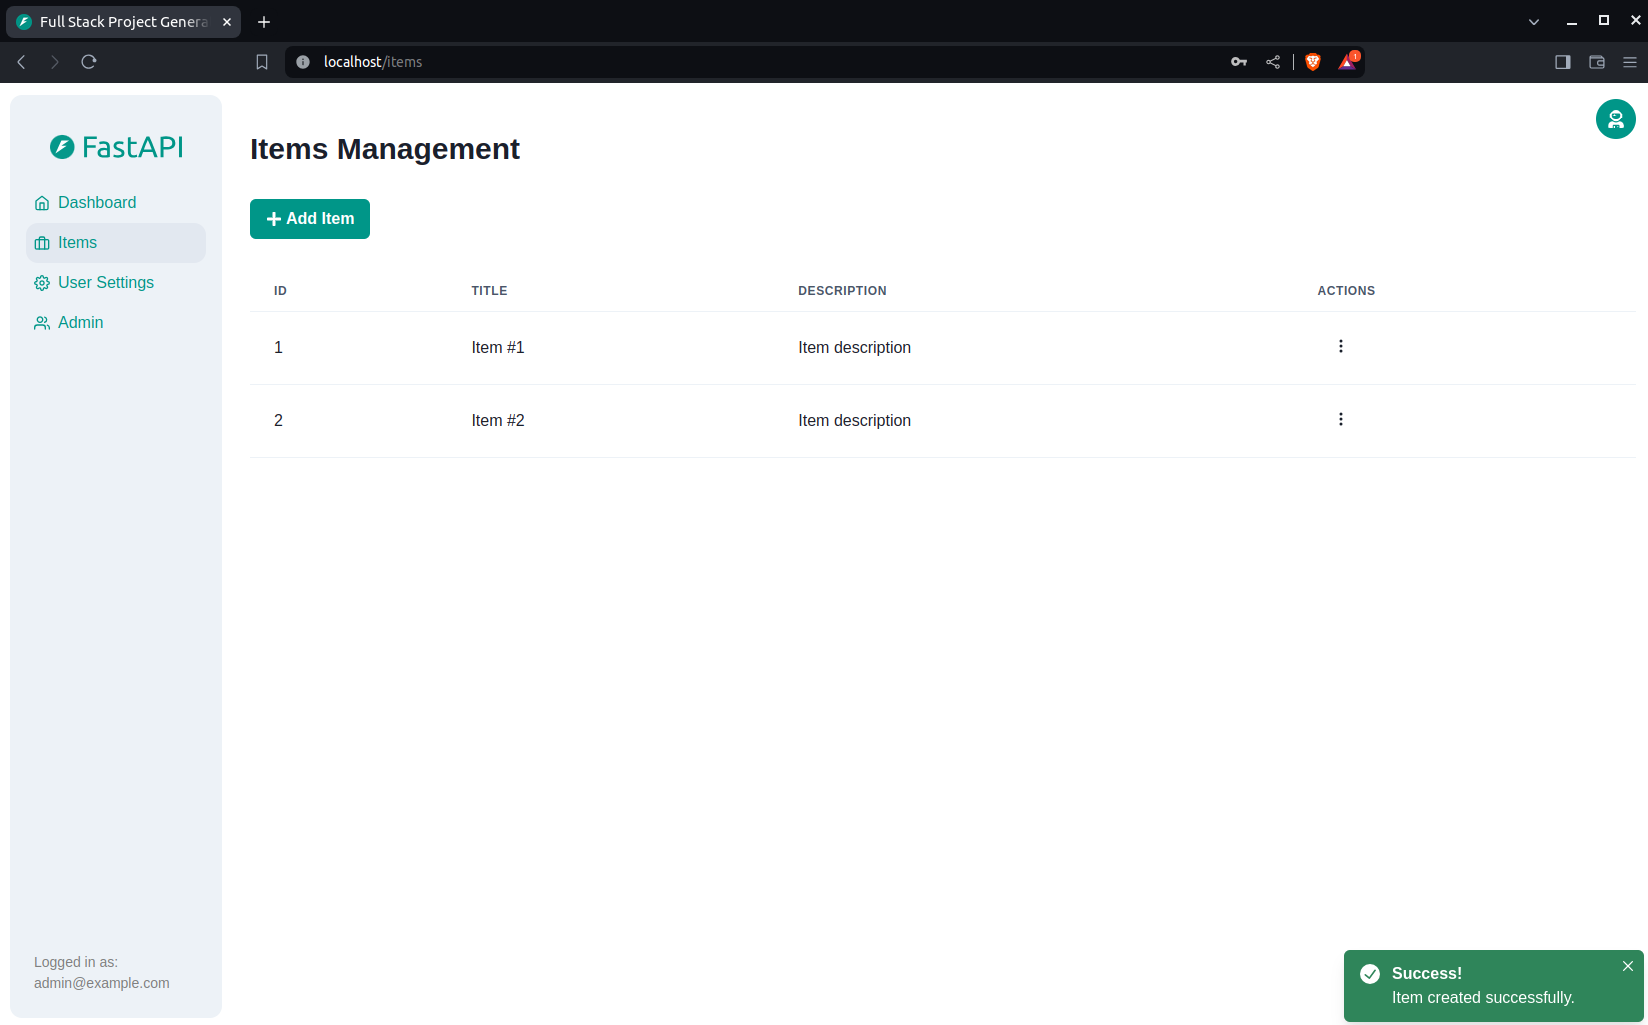
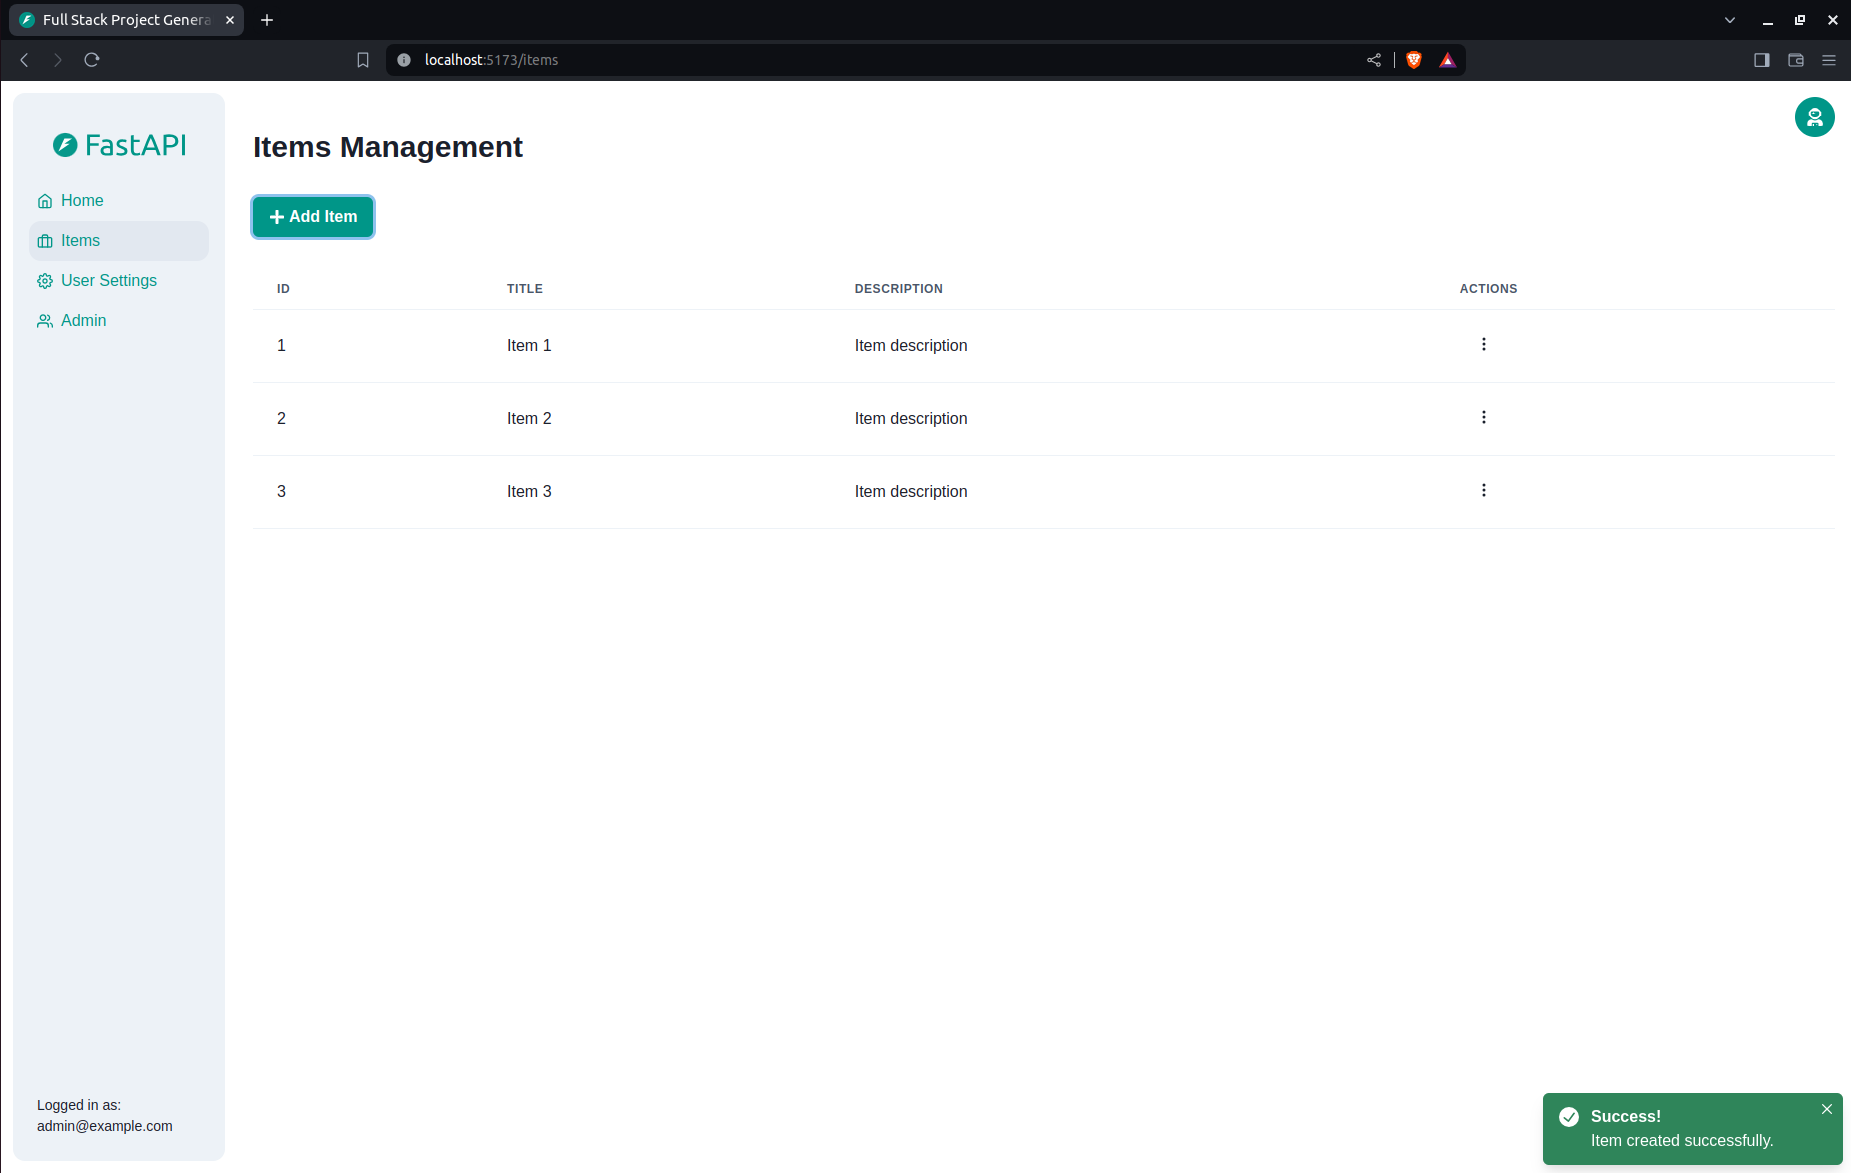
📸 Rename Dashboard to Home and update screenshots (#693)

diff --git a/frontend/src/components/Common/SidebarItems.tsx b/frontend/src/components/Common/SidebarItems.tsx
@@ -7,7 +7,7 @@ import { useQueryClient } from 'react-query'
 import { UserOut } from '../../client'
 
 const items = [
-  { icon: FiHome, title: 'Dashboard', path: '/' },
+  { icon: FiHome, title: 'Home', path: '/' },
   { icon: FiBriefcase, title: 'Items', path: '/items' },
   { icon: FiSettings, title: 'User Settings', path: '/settings' },
 ]
